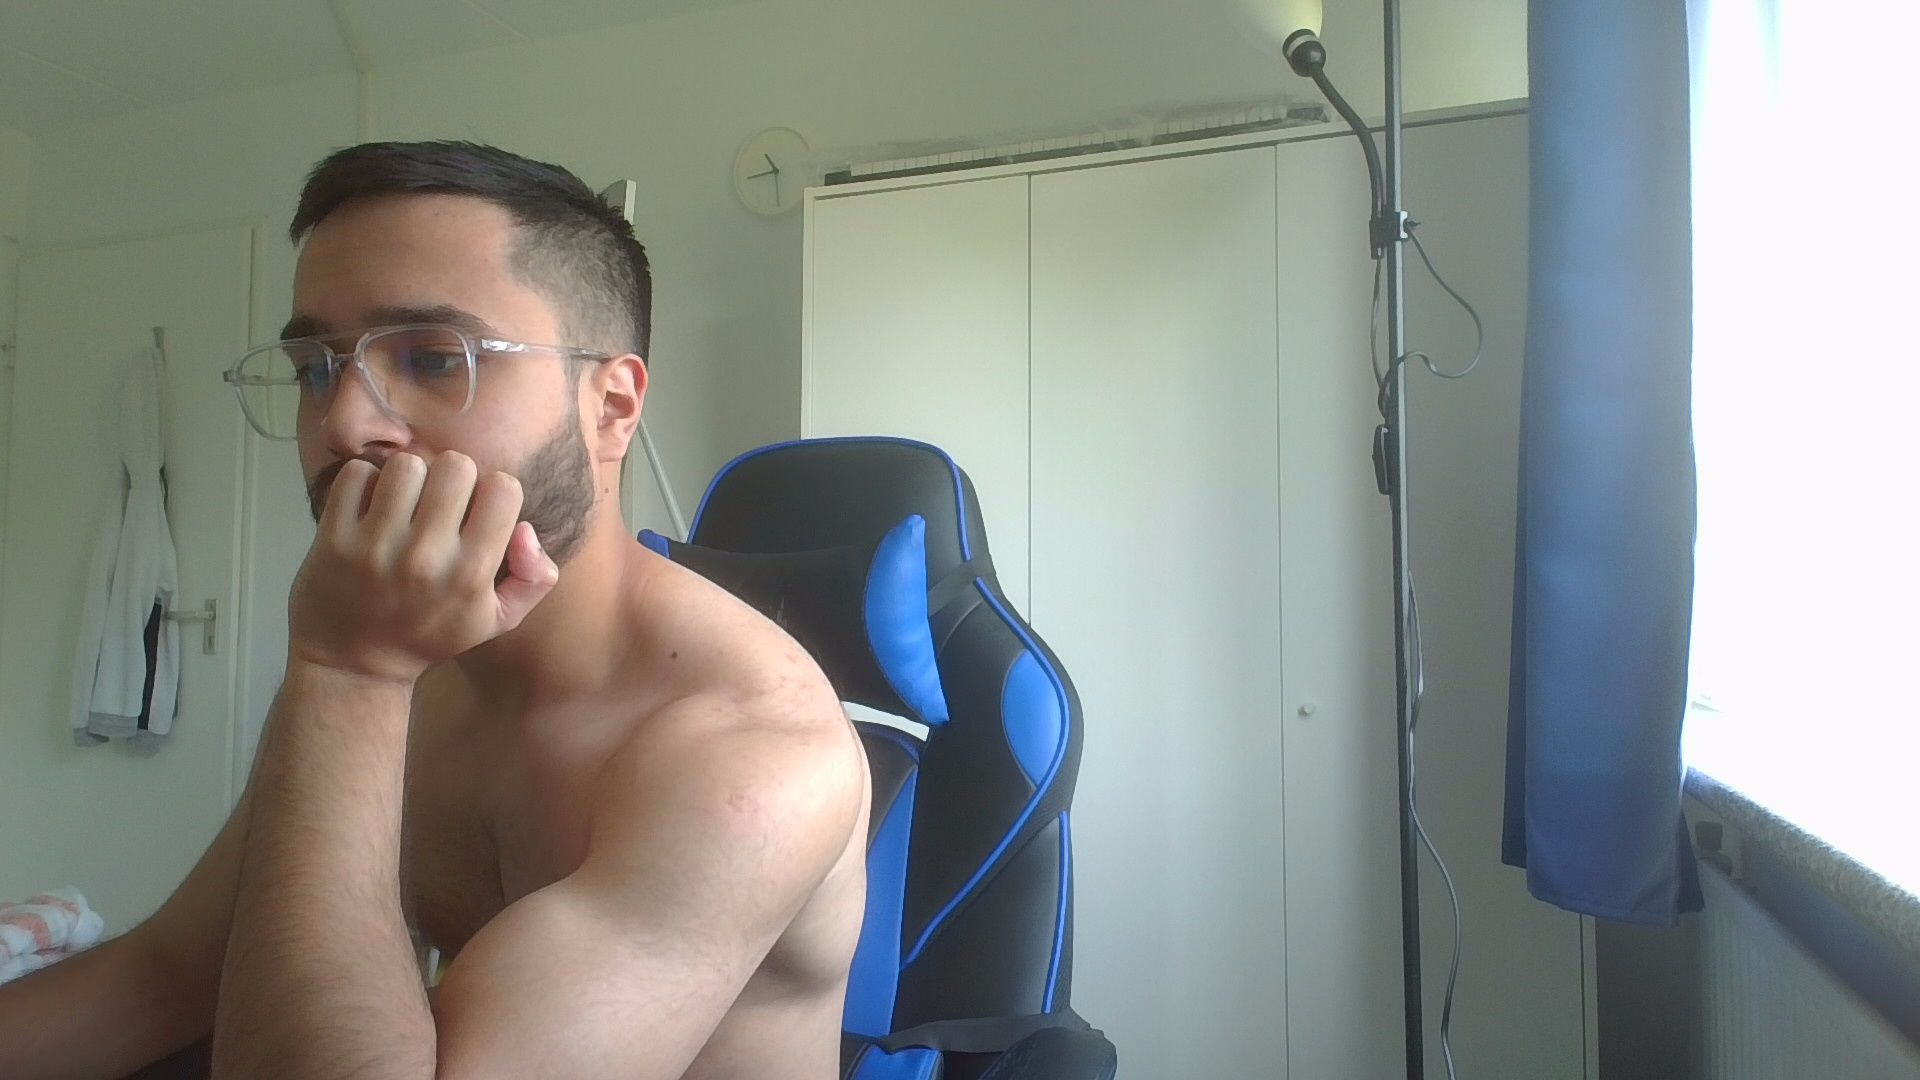
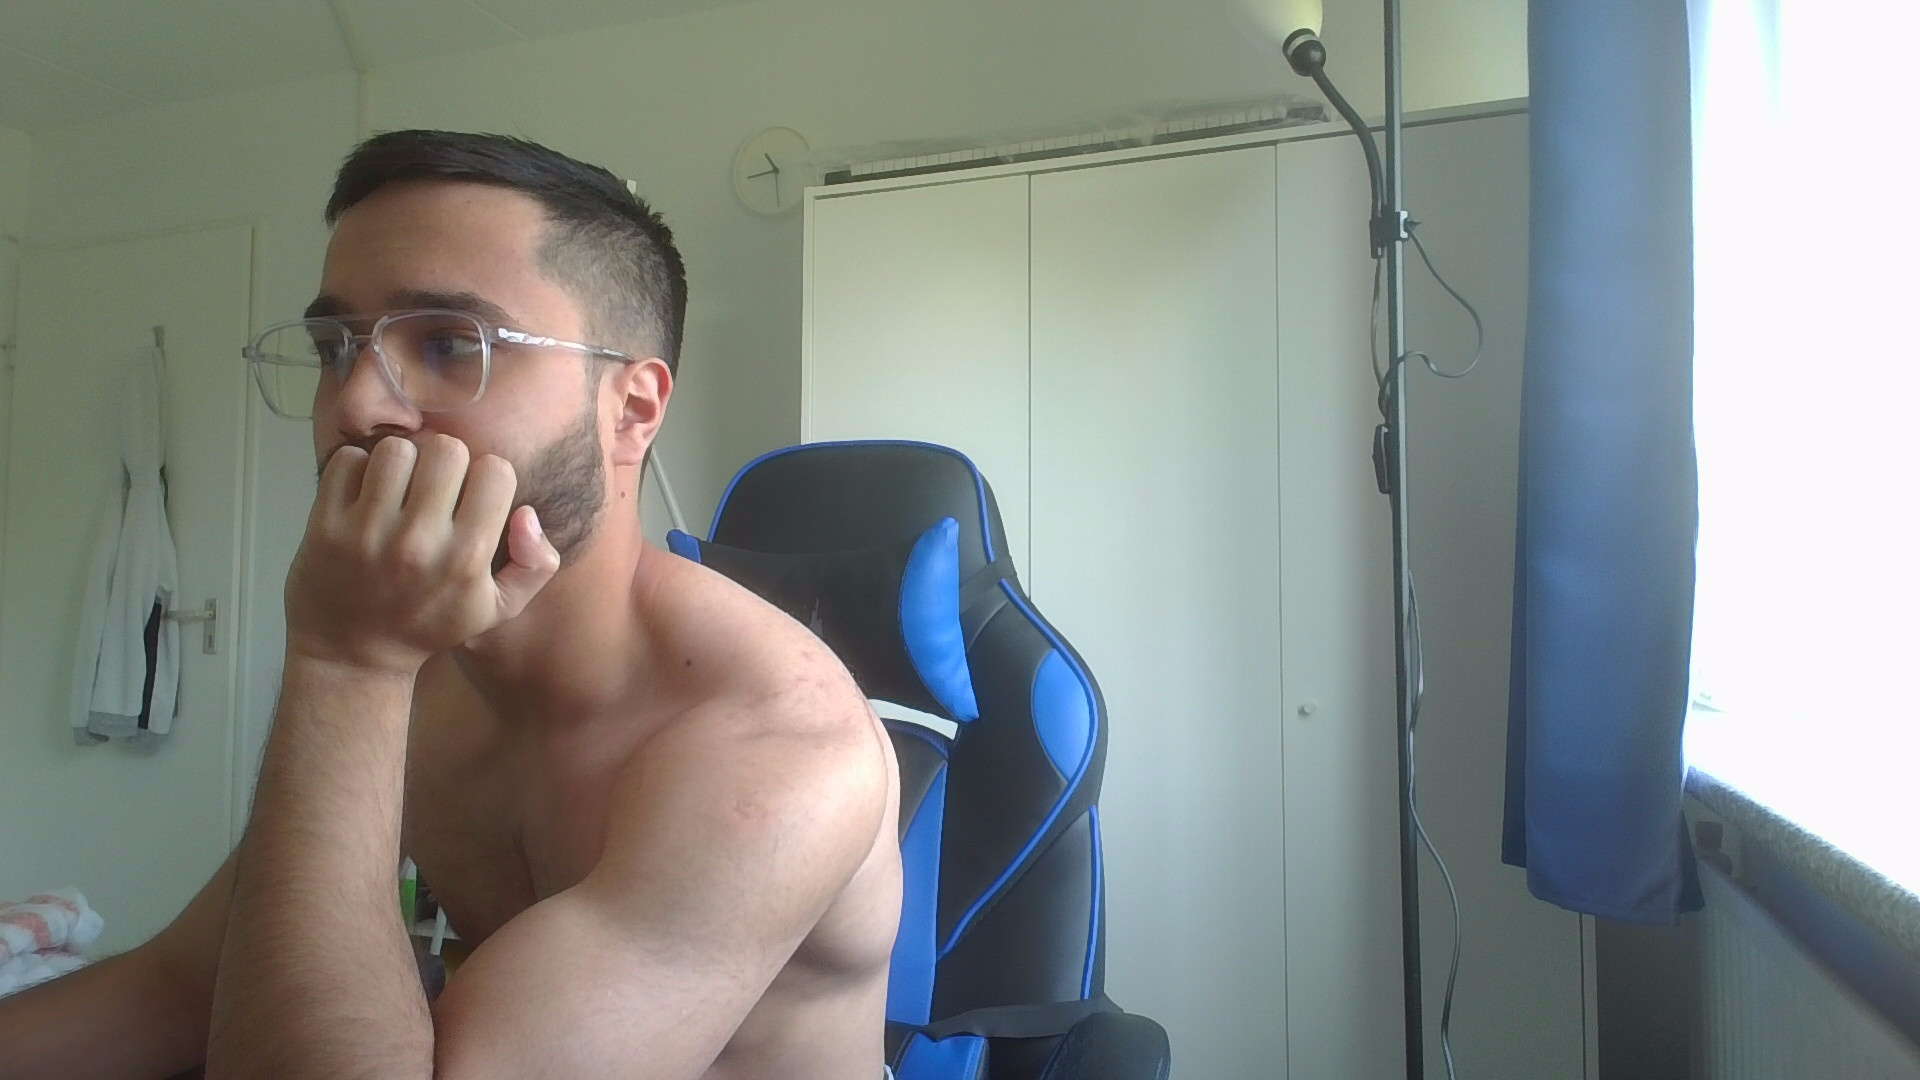
Updated the display to actually show the captured frame so we can draw on it later. Then also split up the FrameCanvas code into more methods to prevent repetitive work.

diff --git a/gui_app/frame_canvas.py b/gui_app/frame_canvas.py
@@ -38,6 +38,9 @@ class FrameCanvas(tk.Frame):
         # Now prevent memory leaks by keeping track of the canvas image
         self.canvas_image_id = None
 
+        # Track loop_id for after method, so we can cancel it when the window is closed to prevent memory leaks
+        self.loop_id = None
+
         self.show_feed()
 
     def show_feed(self):
@@ -45,32 +48,14 @@ class FrameCanvas(tk.Frame):
         ret, frame = self.capture.read()
         # print(f"Frame dimensions: {frame.shape}")
         if ret:
-            # Resize the frame to fit the canvas
-            frame = self.__resize_frame(frame)
-
-            # Convert the frame to RGB format from BGR format
-            frame = cv2.cvtColor(frame, cv2.COLOR_BGR2RGB)
-
-            # Convert the frame to a PIL image
-            image = Image.fromarray(frame)
-
-            # Convert the PIL image to a PhotoImage
-            photo = ImageTk.PhotoImage(image)
-
-            # Get the center of canvas
-            center_x, center_y = self.__return_center()
+            # Prepare the frame for display on the canvas
+            photo = self.__prepare_frame(frame)
 
             # Update the existing image, or create a new one if it doesn't exist
-            if self.canvas_image_id is None:
-                self.canvas_image_id = self.canvas.create_image(center_x, center_y, image=photo, anchor=tk.CENTER)
-            else:
-                self.canvas.itemconfig(self.canvas_image_id, image=photo)
-                self.canvas.coords(self.canvas_image_id, center_x, center_y)
-
-            self.canvas.image = photo
+            self.__update_canvas(photo)
 
         # Schedule the next frame update
-        self.after(15, self.show_feed)
+        self.loop_id = self.after(15, self.show_feed)
 
     def save_frame(self):
         # Get the current frame from the camera feed
@@ -78,6 +63,45 @@ class FrameCanvas(tk.Frame):
         if ret:
             # Save the frame to a file
             cv2.imwrite("frame_chosen.jpg", frame)
+
+            # kill the camera feed to prevent memory leaks
+            if self.loop_id is not None:
+                self.after_cancel(self.loop_id)
+                self.loop_id = None # Reset the loop_id for later
+            
+            # Prepare this frame
+            photo = self.__prepare_frame(self.__resize_frame(frame))
+            self.__update_canvas(photo)
+            
+            
+    
+    def __update_canvas(self, photo):
+        # Get the center of canvas
+        center_x, center_y = self.__return_center()
+
+        # Update the existing image, or create a new one if it doesn't exist
+        if self.canvas_image_id is None:
+            self.canvas_image_id = self.canvas.create_image(center_x, center_y, image=photo, anchor=tk.CENTER)
+        else:
+            self.canvas.itemconfig(self.canvas_image_id, image=photo)
+            self.canvas.coords(self.canvas_image_id, center_x, center_y)
+
+        self.canvas.image = photo
+    
+    def __prepare_frame(self, frame):
+        # Resize the frame to fit the canvas
+        frame = self.__resize_frame(frame)
+
+        # Convert the frame to RGB format from BGR format
+        frame = cv2.cvtColor(frame, cv2.COLOR_BGR2RGB)
+
+        # Convert the frame to a PIL image
+        image = Image.fromarray(frame)
+
+        # Convert the PIL image to a PhotoImage
+        photo = ImageTk.PhotoImage(image)
+
+        return photo
 
     def __resize_frame(self, frame):
         # current canvas dimensions